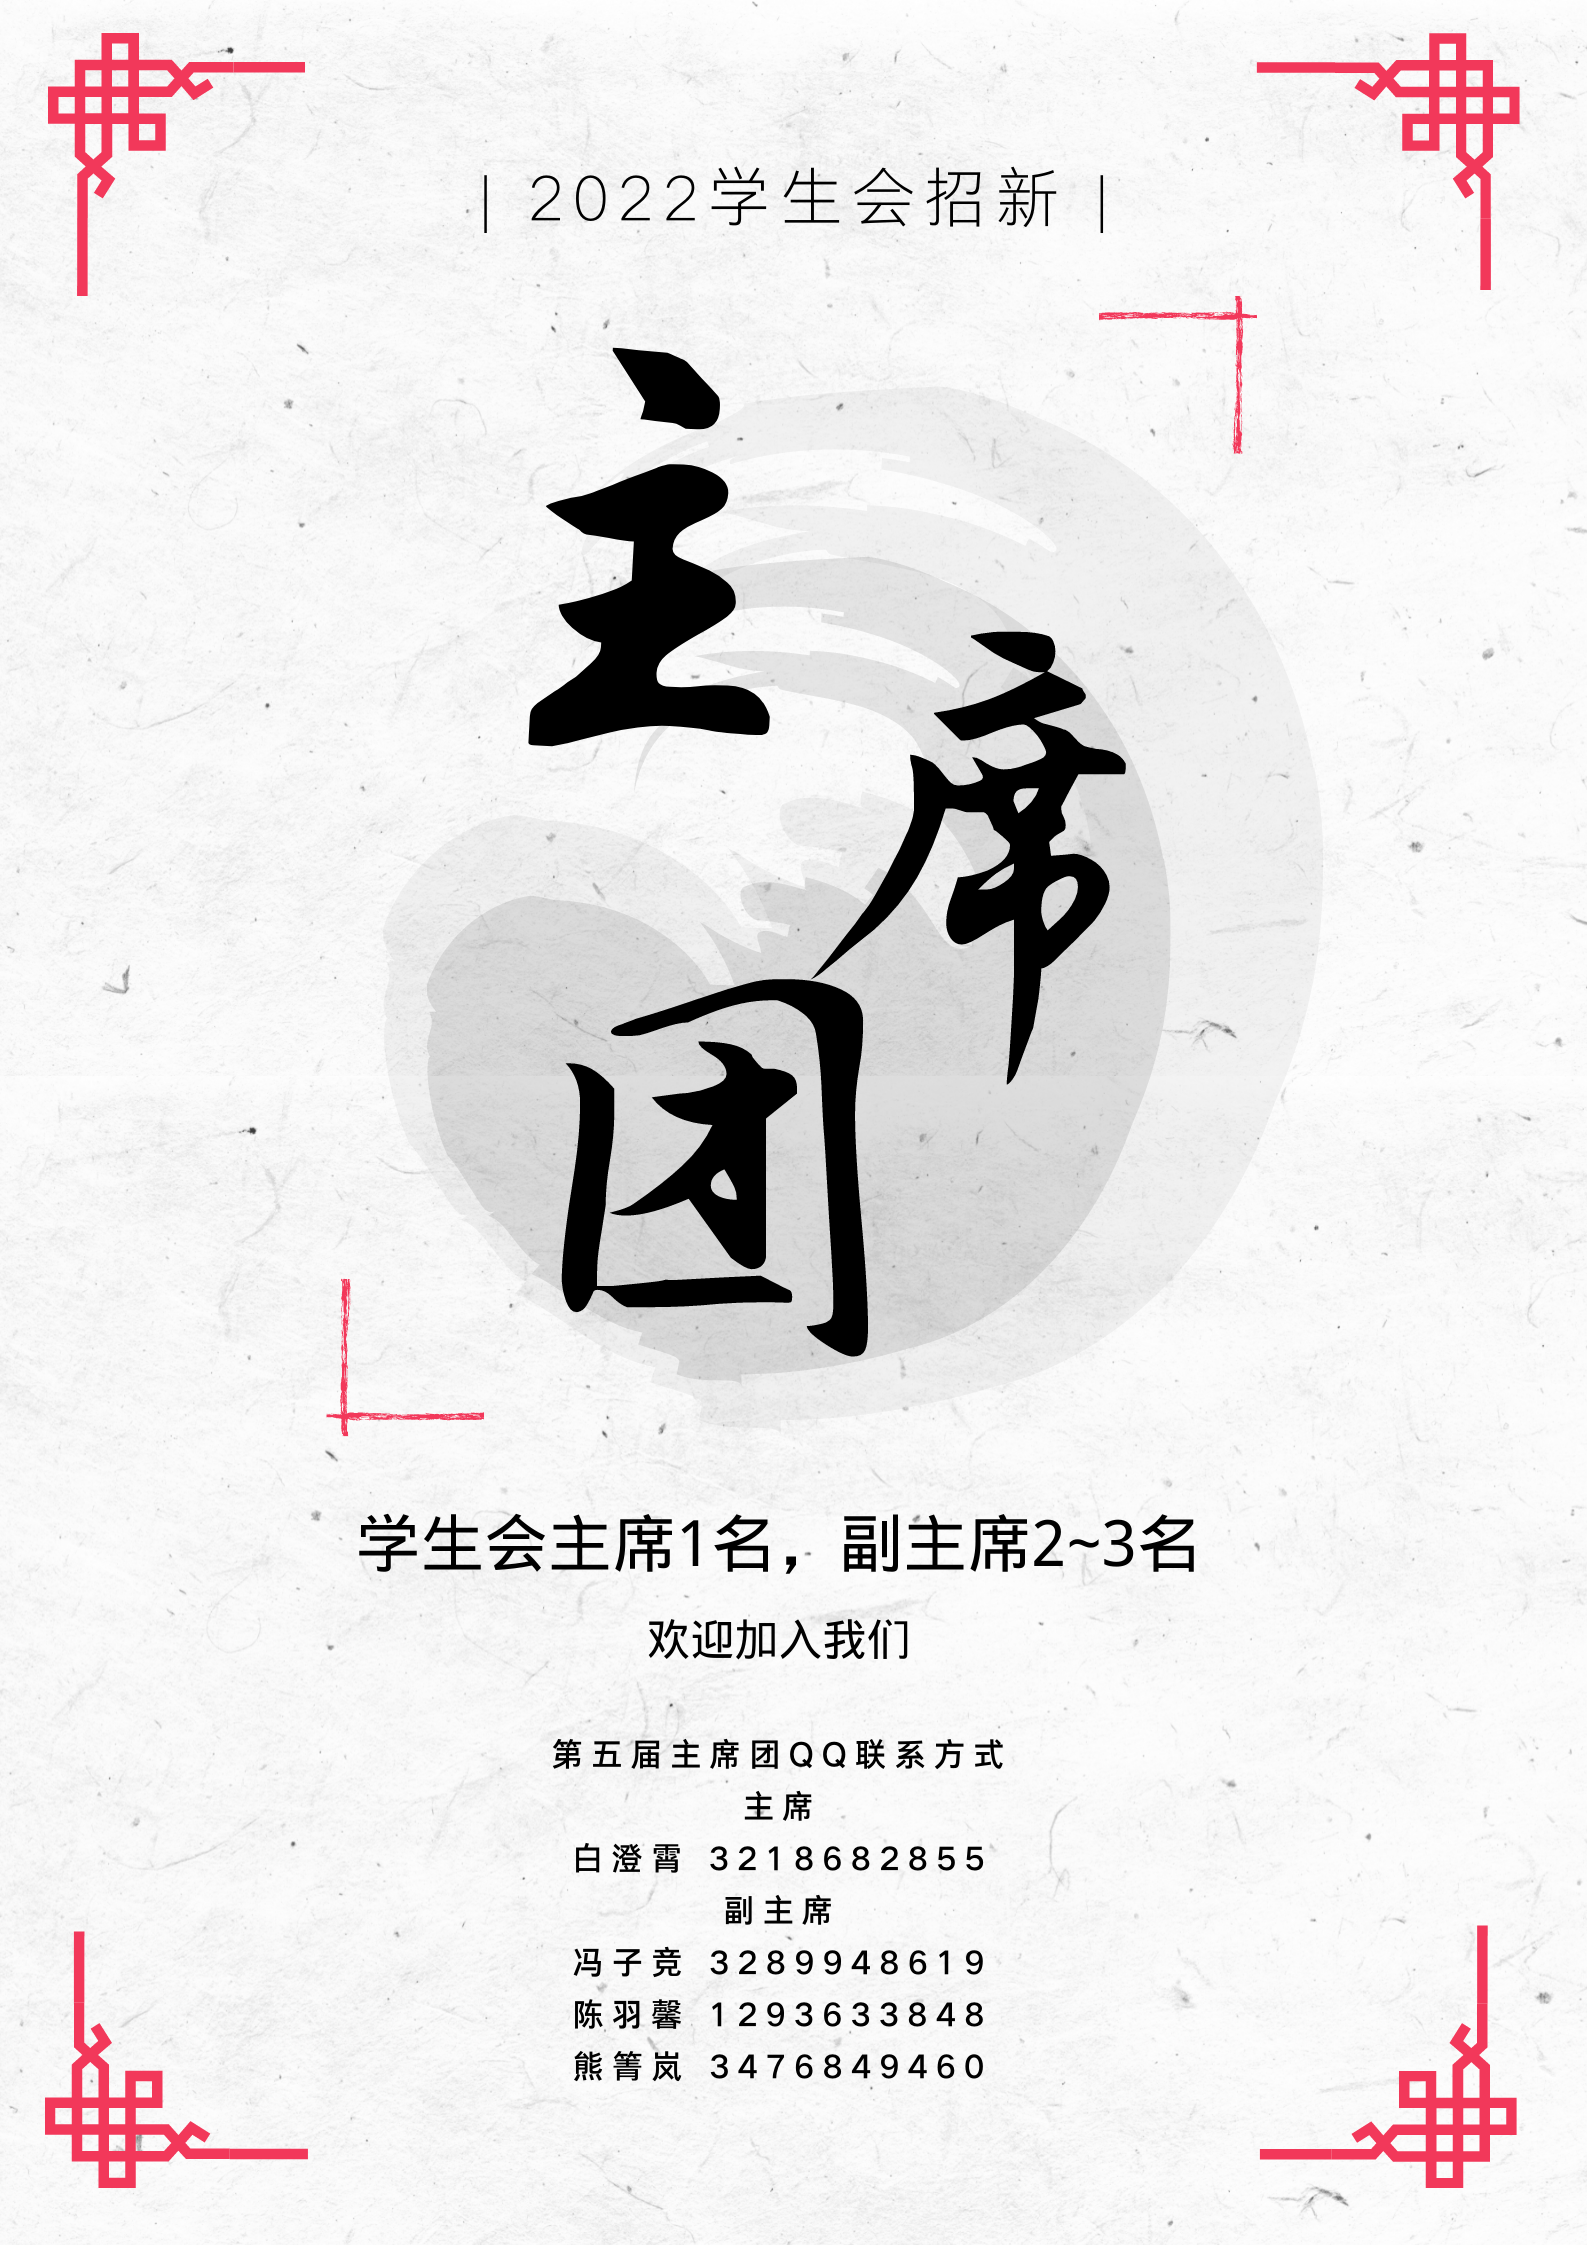
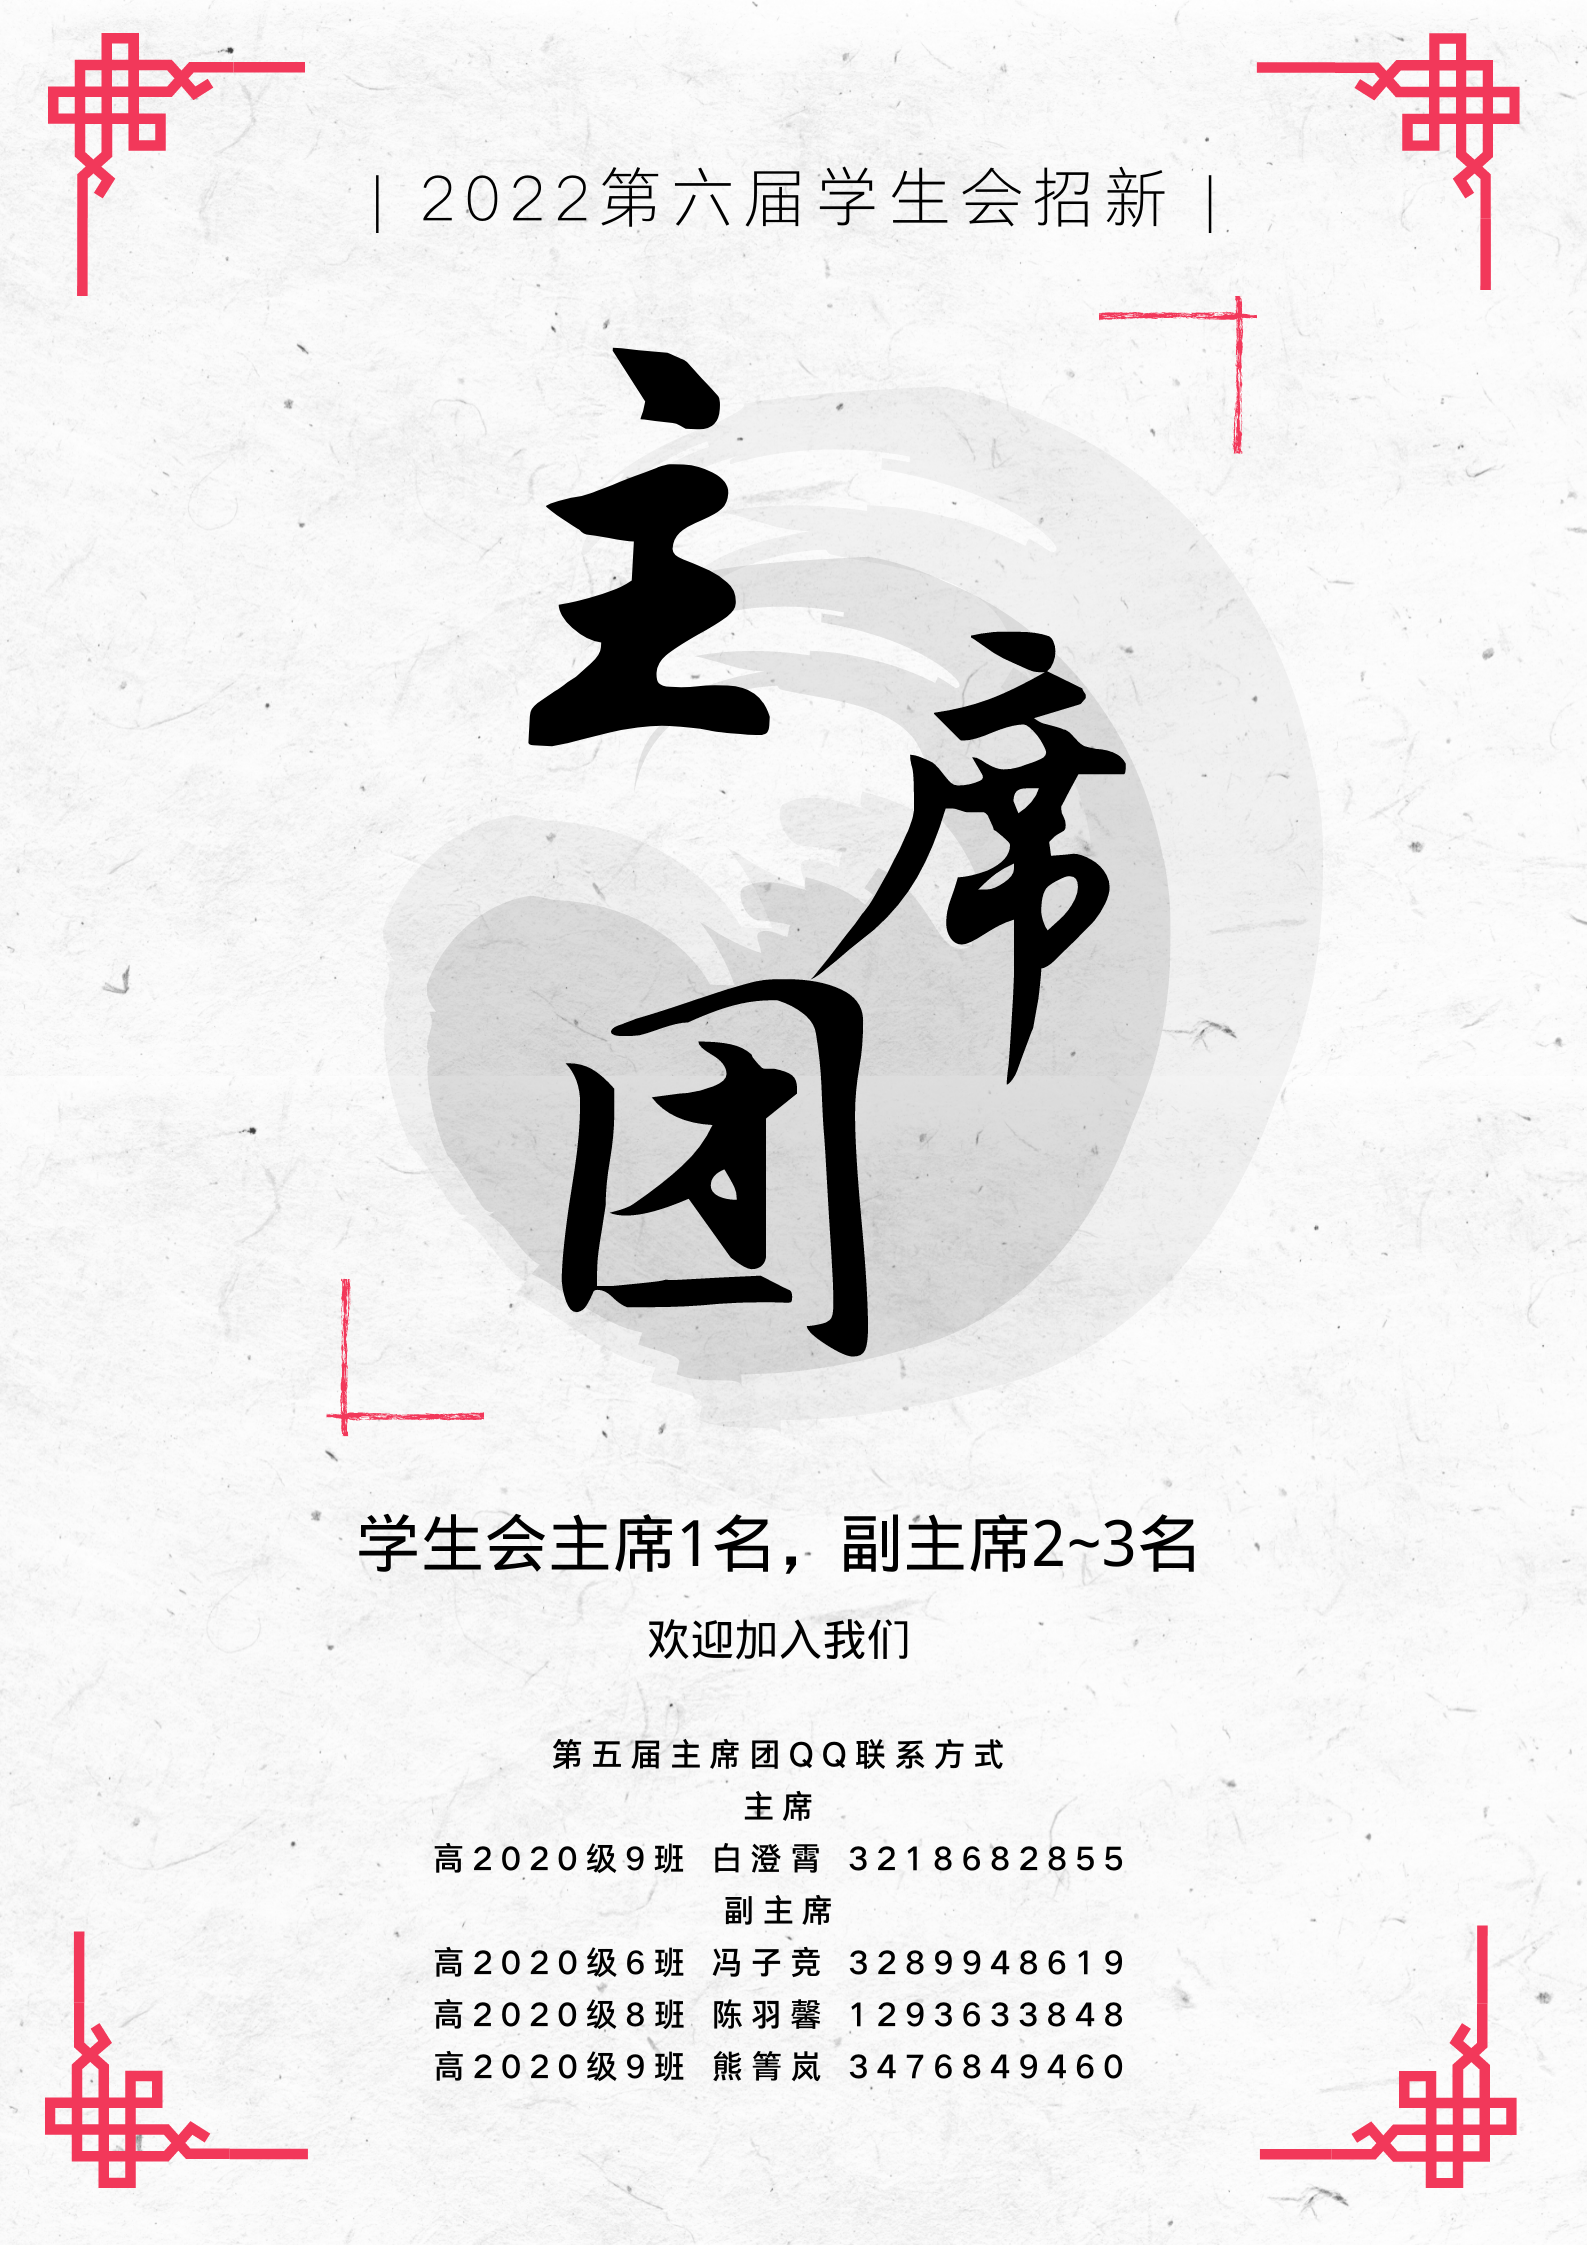
完善主席团书记团招新内容及海报

Changed region(s): [[0.2779, 0.8731, 0.7101, 0.9354], [0.2779, 0.0624, 0.741, 0.0935], [0.2779, 0.8107, 0.7101, 0.8419]]

diff --git a/_posts/2022-08-29-2022newmenbers.md b/_posts/2022-08-29-2022newmenbers.md
@@ -22,6 +22,12 @@ keywords: 招新，团学会
 
 # 校团委会  
 
+## 书记团  
+### 团委副书记  
+围绕党委的中心工作和上级团组织指示精神，全面负责学院共青团工作，处理日常事务。我校团委副书记分管校团委组织部、宣传部、秘书部，积极配合团委书记吴元林老师完成相关工作。  
+第五届团委副书记 高2020级9班 李阳漾 QQ1739837844
+[![书记团海报](/images/posts/2022-08-29-2022newmembers/sjt.jpg)](/images/posts/2022-08-29-2022newmembers/2022%E5%9B%A2%E5%AD%A6%E4%BC%9A%E4%B9%A6%E8%AE%B0%E5%9B%A2%E6%8B%9B%E6%96%B0.png)
+
 ## 组织部  
 校团委组织部是负责校中国共产主义青年团的相关工作的部门。注重学校的团组织建设，为学校的红色思想建设提供了坚实的力量。组织部配合学校发展团员、开展团课、整理团员资料、收取团费、转接团员资料等工作。  
 
@@ -49,6 +55,15 @@ keywords: 招新，团学会
 # 校学生会  
 
 ## 主席团  
+### 主席  
+校学生会主席总管学生会所有部门，包括学习部、社团部、纪检部、生活部、文艺部、体育部。  
+第五届主席：高2020级9班 白澄霄 QQ：3218682855  
+### 副主席  
+副主席负责配合主席分管以上部门，每人分管两个部门。  
+第五届副主席：  
+高2020级6班 冯子竞 3289948619  
+高2020级8班 陈羽馨 1293633848  
+高2020级9班 熊箐岚 3476849460  
 [![主席团海报](/images/posts/2022-08-29-2022newmembers/zxt.jpg)](/images/posts/2022-08-29-2022newmembers/2022%E5%9B%A2%E5%AD%A6%E4%BC%9A%E4%B8%BB%E5%B8%AD%E5%9B%A2%E6%8B%9B%E6%96%B0.png)
 
 ## 学习部  
